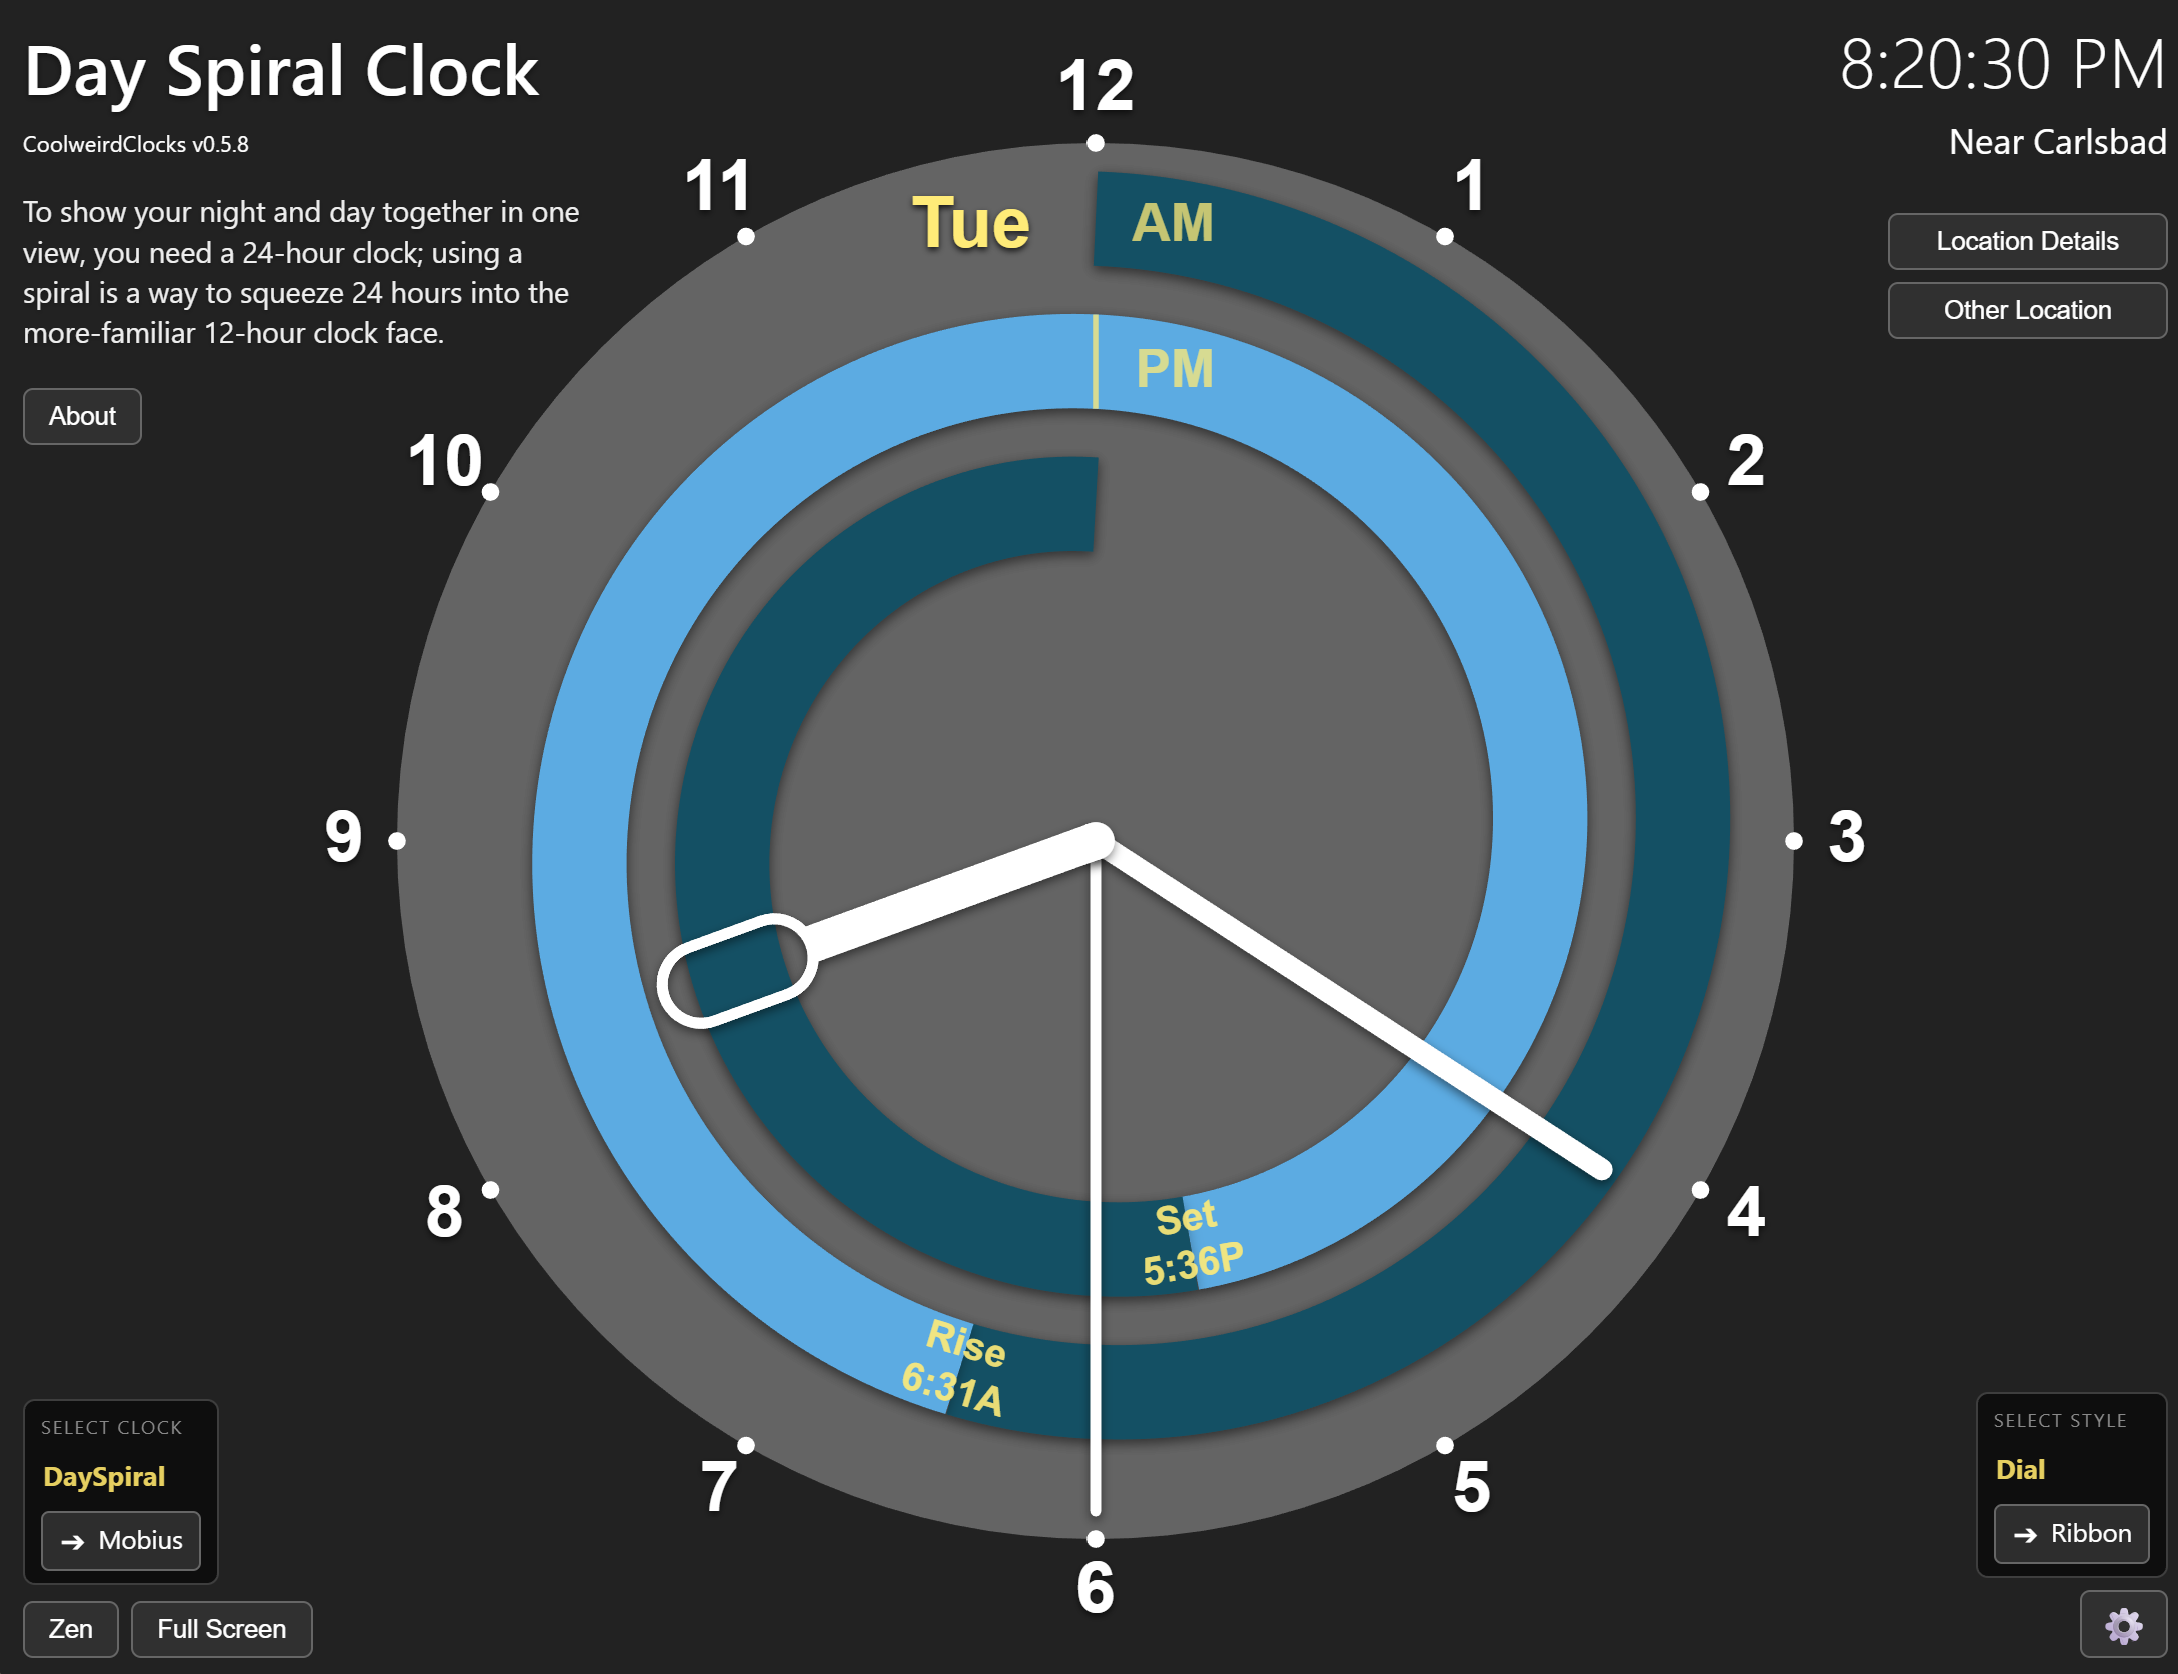
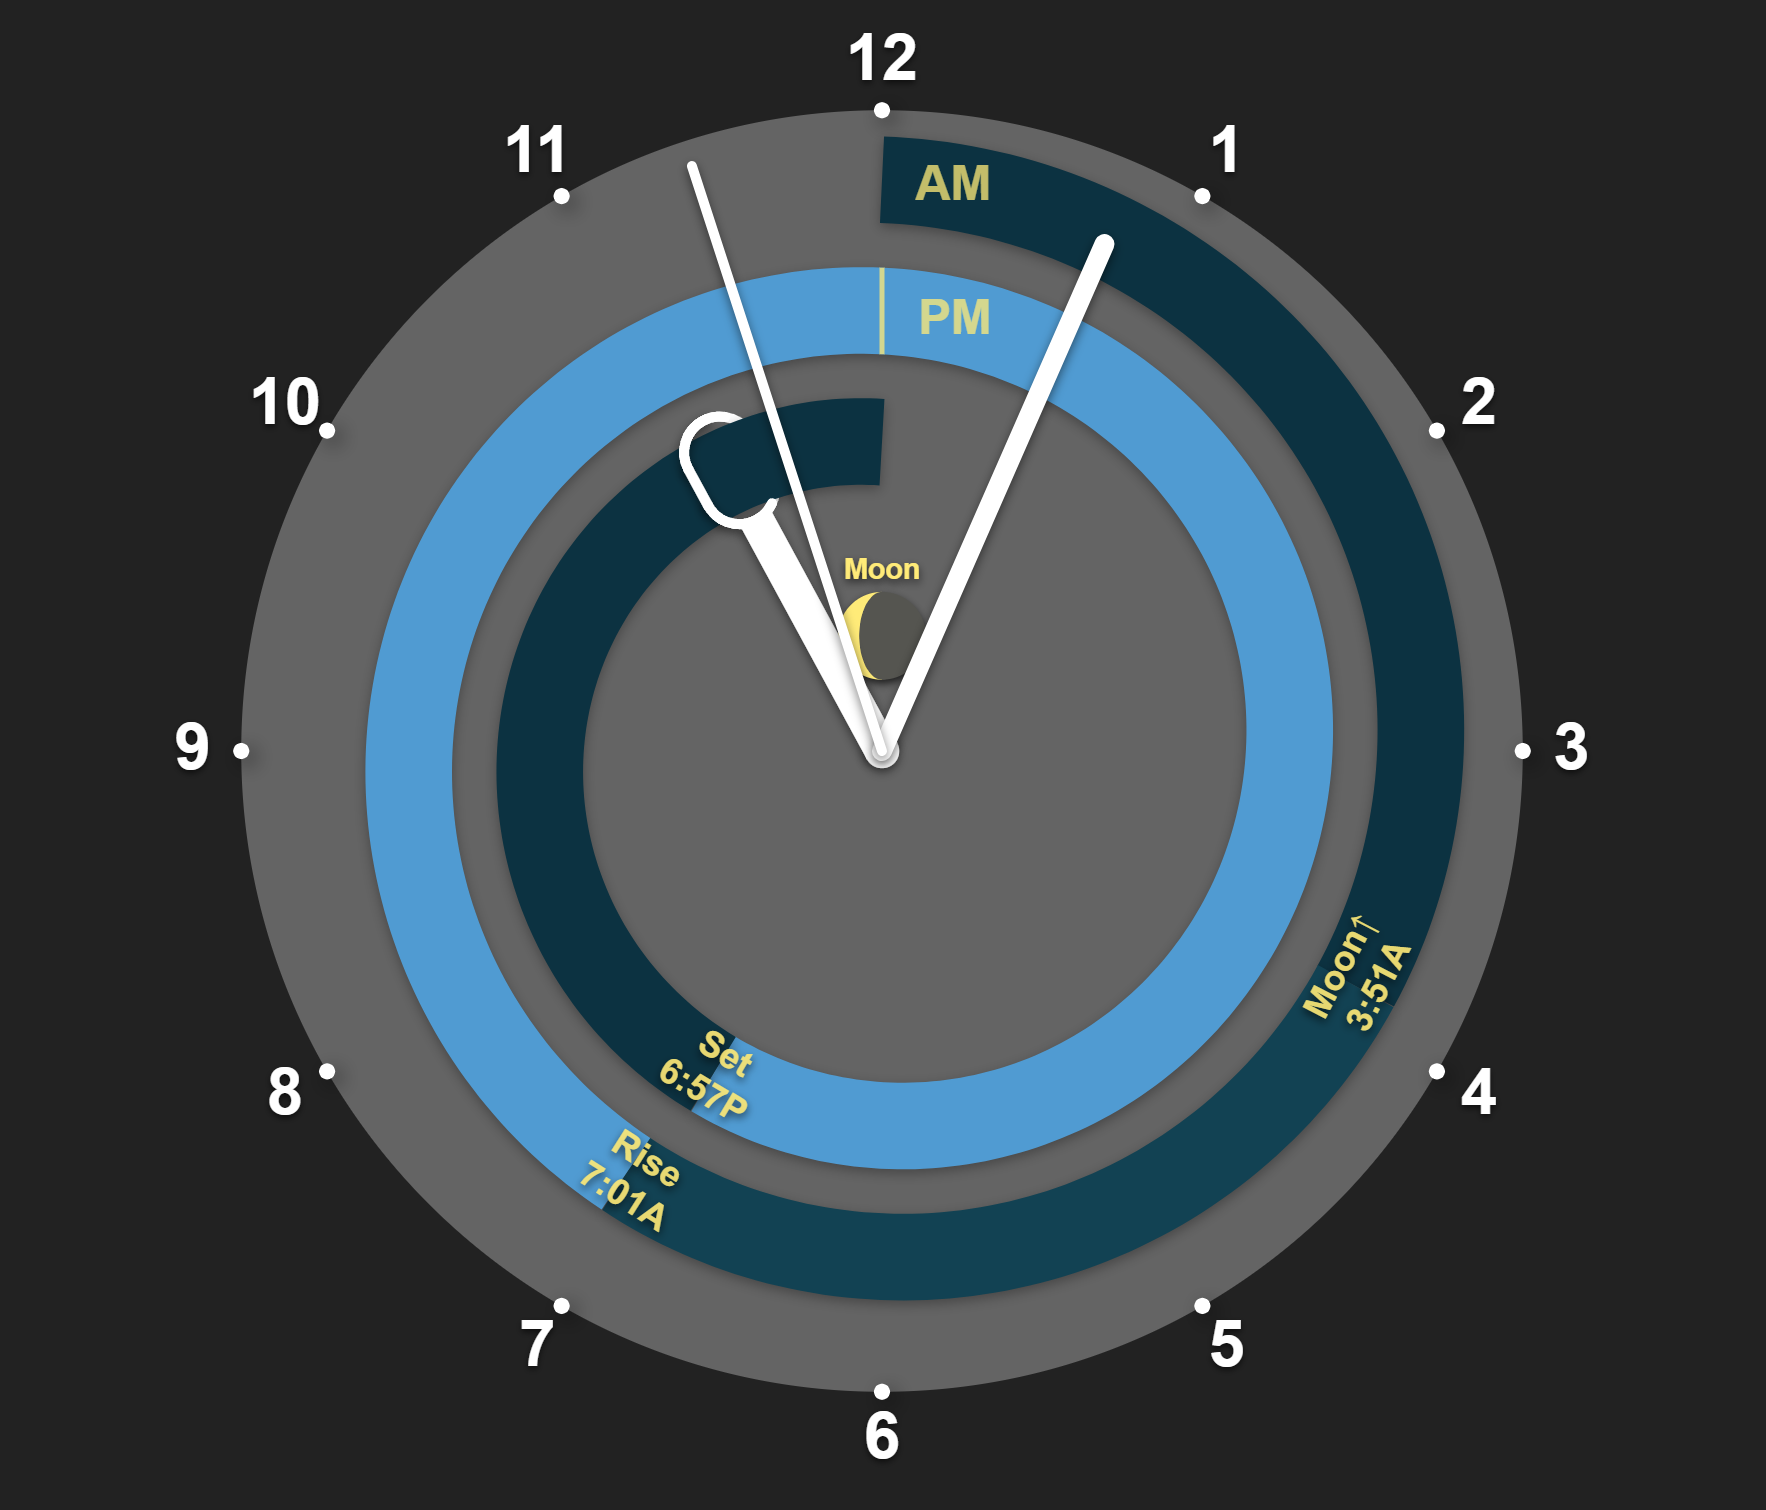
UpdatedAbout, readme and bump to v0.8.0

diff --git a/index.html b/index.html
@@ -16,8 +16,8 @@
   <meta charset="UTF-8">
   <meta name="viewport" content="width=device-width, initial-scale=1.0, user-scalable=yes">
   <title>CoolweirdClocks</title>
-  <link rel="stylesheet" href="style.css?v=0.7.1">
-  <link rel="stylesheet" href="modal-fixes.css?v=0.7.1">
+  <link rel="stylesheet" href="style.css?v=0.8.0">
+  <link rel="stylesheet" href="modal-fixes.css?v=0.8.0">
   <script src="https://cdnjs.cloudflare.com/ajax/libs/p5.js/1.4.0/p5.js"></script>
   <script src="https://cdnjs.cloudflare.com/ajax/libs/p5.js/1.4.0/addons/p5.sound.min.js"></script>
 
@@ -425,14 +425,14 @@
   <script src="https://unpkg.com/three@0.128.0/examples/js/controls/OrbitControls.js"></script>
   <script src="https://unpkg.com/three@0.128.0/examples/js/utils/BufferGeometryUtils.js"></script>
 
-  <script src="sketch.js?v=0.7.1"></script>
+  <script src="sketch.js?v=0.8.0"></script>
 
   <!-- App Modules -->
-  <script src="js/TimeKeeper.js?v=0.7.1"></script>
-  <script src="js/LocationManager.js?v=0.7.1"></script>
-  <script src="js/ClockRenderer.js?v=0.7.1"></script>
-  <script src="js/renderers/DaySpiralRenderer.js?v=0.7.1"></script>
-  <script src="js/renderers/MobiusRenderer.js?v=0.7.1"></script>
+  <script src="js/TimeKeeper.js?v=0.8.0"></script>
+  <script src="js/LocationManager.js?v=0.8.0"></script>
+  <script src="js/ClockRenderer.js?v=0.8.0"></script>
+  <script src="js/renderers/DaySpiralRenderer.js?v=0.8.0"></script>
+  <script src="js/renderers/MobiusRenderer.js?v=0.8.0"></script>
   <script src="js/renderers/SpiroClockRenderer.js"></script>
   <script src="js/renderers/SteampunkClockRenderer.js"></script>
 </body>

diff --git a/sketch.js b/sketch.js
@@ -46,7 +46,7 @@ Future Enhancement Ideas ------------
 
 //======== GLOBALS ===================================
 // Name convention: global vars are capitalized
-const APP_VERSION = "v0.7.1 \u00A92026 Charlie Wallace";
+const APP_VERSION = "v0.8.0 \u00A92026 Charlie Wallace";
 
 // --- Global Setup for External Renderers ---
 console.log("📦 CoolweirdClocks loaded");

diff --git a/README.md b/README.md
@@ -11,8 +11,8 @@ CoolweirdClocks provides a robust set of features common to all its clock design
 - **Universal Location Detection**: Some clocks need your location, for example to calculate sunrise/sunset. Automatically detects your approximate location using IP geolocation for a seamless startup experience.
 - **Precise GPS Location**: Optionally grant location permission for exact coordinates and the most accurate sunrise/sunset calculations (in Location Details dialog).
 - **Manual Location Entry**: Enter any city name or manual coordinates (latitude, longitude, and GMT offset) to view the time anywhere in the world.
-- **Clock Selector**: Easily switch between different clock designs (currently featuring DaySpiral and Mobius).
-- **Zen Mode**: A minimalist mode that hides all UI controls for a clean, immersive visualization.
+- **Clock Selector**: Easily switch between different clock designs (currently featuring DaySpiral, Steampunk, and Mobius).
+- **Zen Mode**: A minimalist mode that hides all UI controls for a clean, immersive visualization. Try "shift-click" or long-press for a secret *Super Zen* mode that goes to full screen and turns off noisy settings
 - **Full Screen Mode**: Useful for wall-mounted displays and mobile devices/small screens.
 - **Privacy-First URL Persistence**: Your settings are preserved in the URL, so you can save and share your favorite clock settings via bookmarks, avoiding the need for cookies.
 
@@ -63,23 +63,31 @@ A 12-hour clock face where time moves along a fully three-dimensional Mobius str
 ![Steampunk Clock](SteampunkClock.png)
 
 A stylized clock that uses nested spirographic gears to display the time. The image shows the clock at 7:50:00.
-- **Nested Gears**: Each ring rolls inside the one above it, with the hour, minute, and second values shown on successively smaller gears.
+- **Nested Gears**: Each ring rolls inside the one outside it, with the hour, minute, and second values shown on successively smaller gears.
 - **Always in Motion**: The spinning anti-gear and support gears keep the mechanism in continuous motion.
 - **Red Indicator Lights**: Black indicators light up in red each time they enter a socket, creating a sequence of 4 red dots lighting up on the hour.
 - **Orientation Control**: Option to keep all numbers upright as they rotate around the clock face.
+- **2-D or 3-D View**: In the extra-steampunky 3-D view we show aged metal textures and gears or rollers. Plus you can navigate the model to fully explore the mechanism; and you can save your favorite view in the url so you can share and bookmark it.
+- **3-D Navigation**:
+  - **Desktop**: Use mouse drag to rotate, mouse wheel to zoom, and shift-drag to change location.
+  - **Mobile**: Drag to rotate, pinch to zoom, and two-finger drag to move.
 
 **Specific URL Parameters:**
 - `clock=steampunk`: Activates the Steampunk clock.
-- `keepNumbersHoriz=1`: Keeps the numbers upright instead of rotating with the gears.
-- `colorStyle=[brass|silver|bronze]`: Changes the metallic styling of the steampunk clock (hypothetical example, if you add this later).
+- `steampunkStyle=2d`: Selects the 2-D rendering style (defaults to 3-D).
+- `stmpnkNumRadial=0`: Keeps the numbers upright (parallel to the top) instead of rotating with the gears.
+- `stmpnkTextures=0`: Disables the "Aged Texture" look for a clean metallic finish.
+- `stmpnkUseGears=0`: Switches the mechanism to "Rollers" instead of traditional teeth-gears.
+- `pov=cx,cy,cz,tx,ty,tz`: Sets a custom 3-D camera Point of View (camera x,y,z and target x,y,z). Use the "Save View" button to save your favorite view in the url so you can share and bookmark it.
 
 ---
 
 ## Suggested Use Case
 
 Have an old tablet? Convert it into a beautiful wall or shelf clock! Use **Zen Mode** for a clean look. Bookmark your favorite setup (e.g., `https://dayspiral.com/#clock=mobius&rotation=1&zen=1`) and set it as the device's home screen.
-
 Try it here: [dayspiral.com/#clock=mobius&rotation=1&zen=1](https://dayspiral.com/#clock=mobius&rotation=1&zen=1)
+
+Note: browsers don't allow setting the full-screen mode from a url hash setting for security reasons, but you can select it using the "Full Screen" button.
 
 ## Technologies
 
